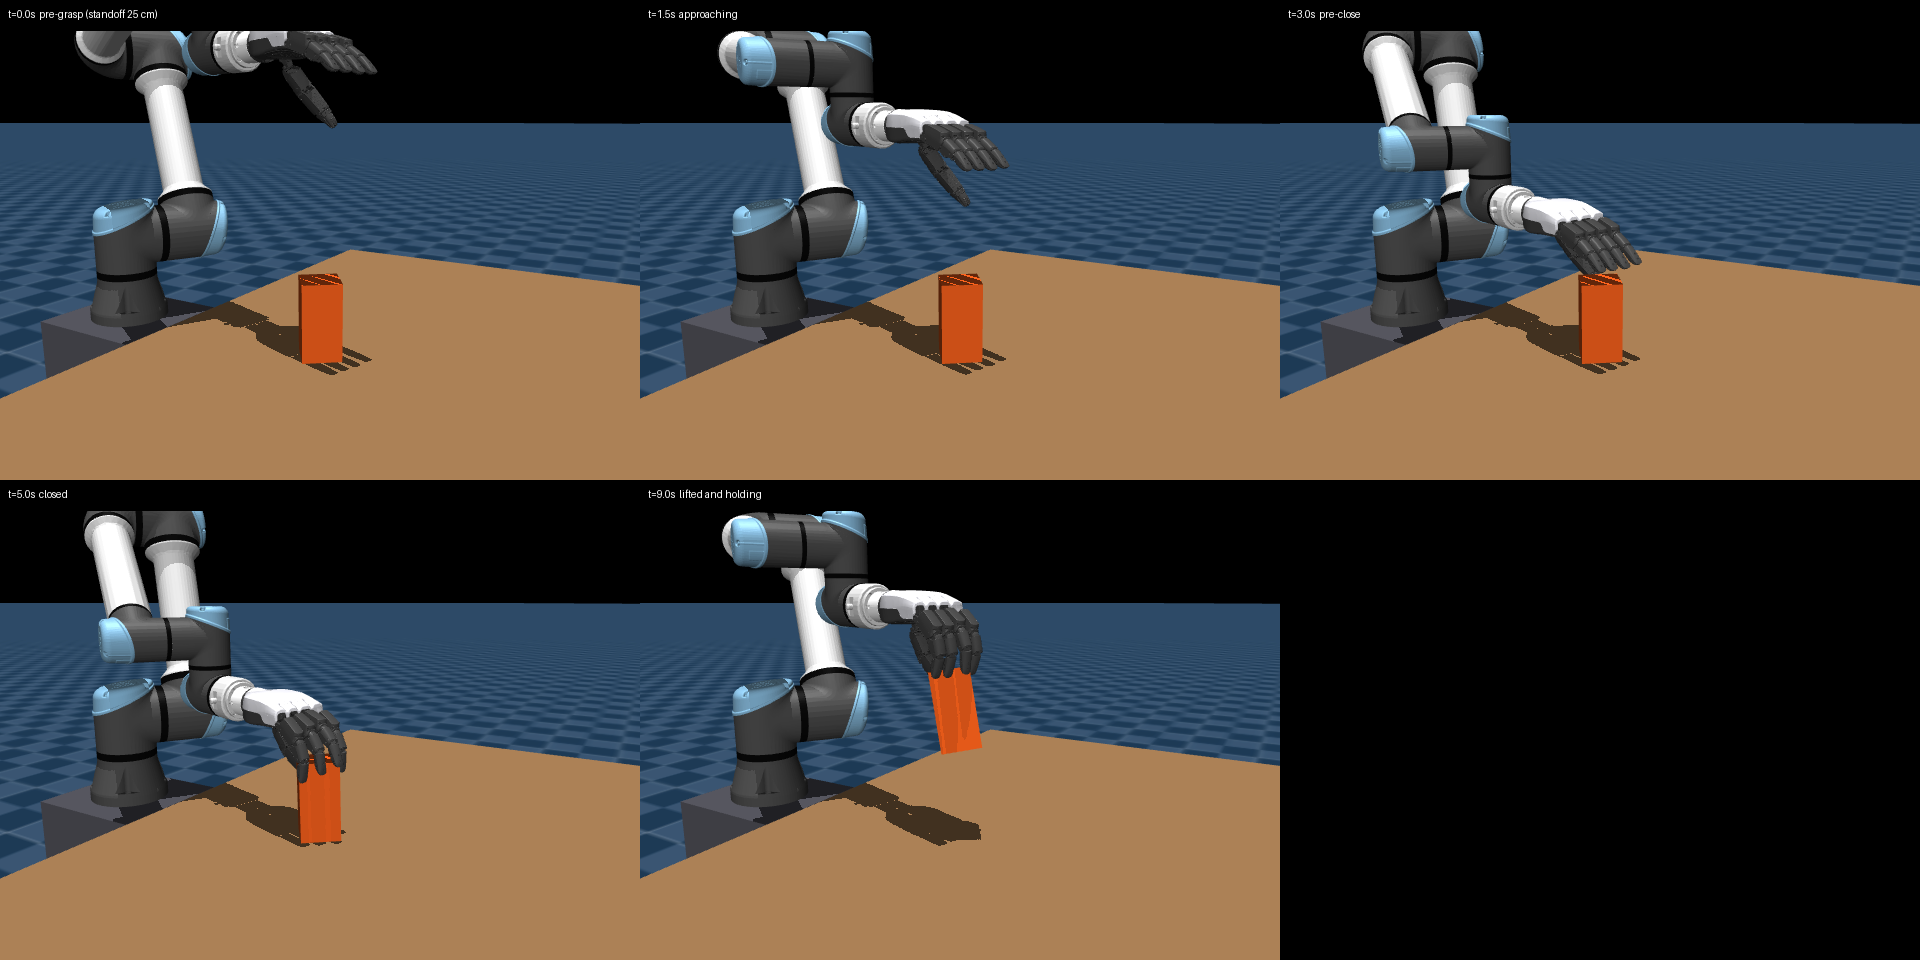
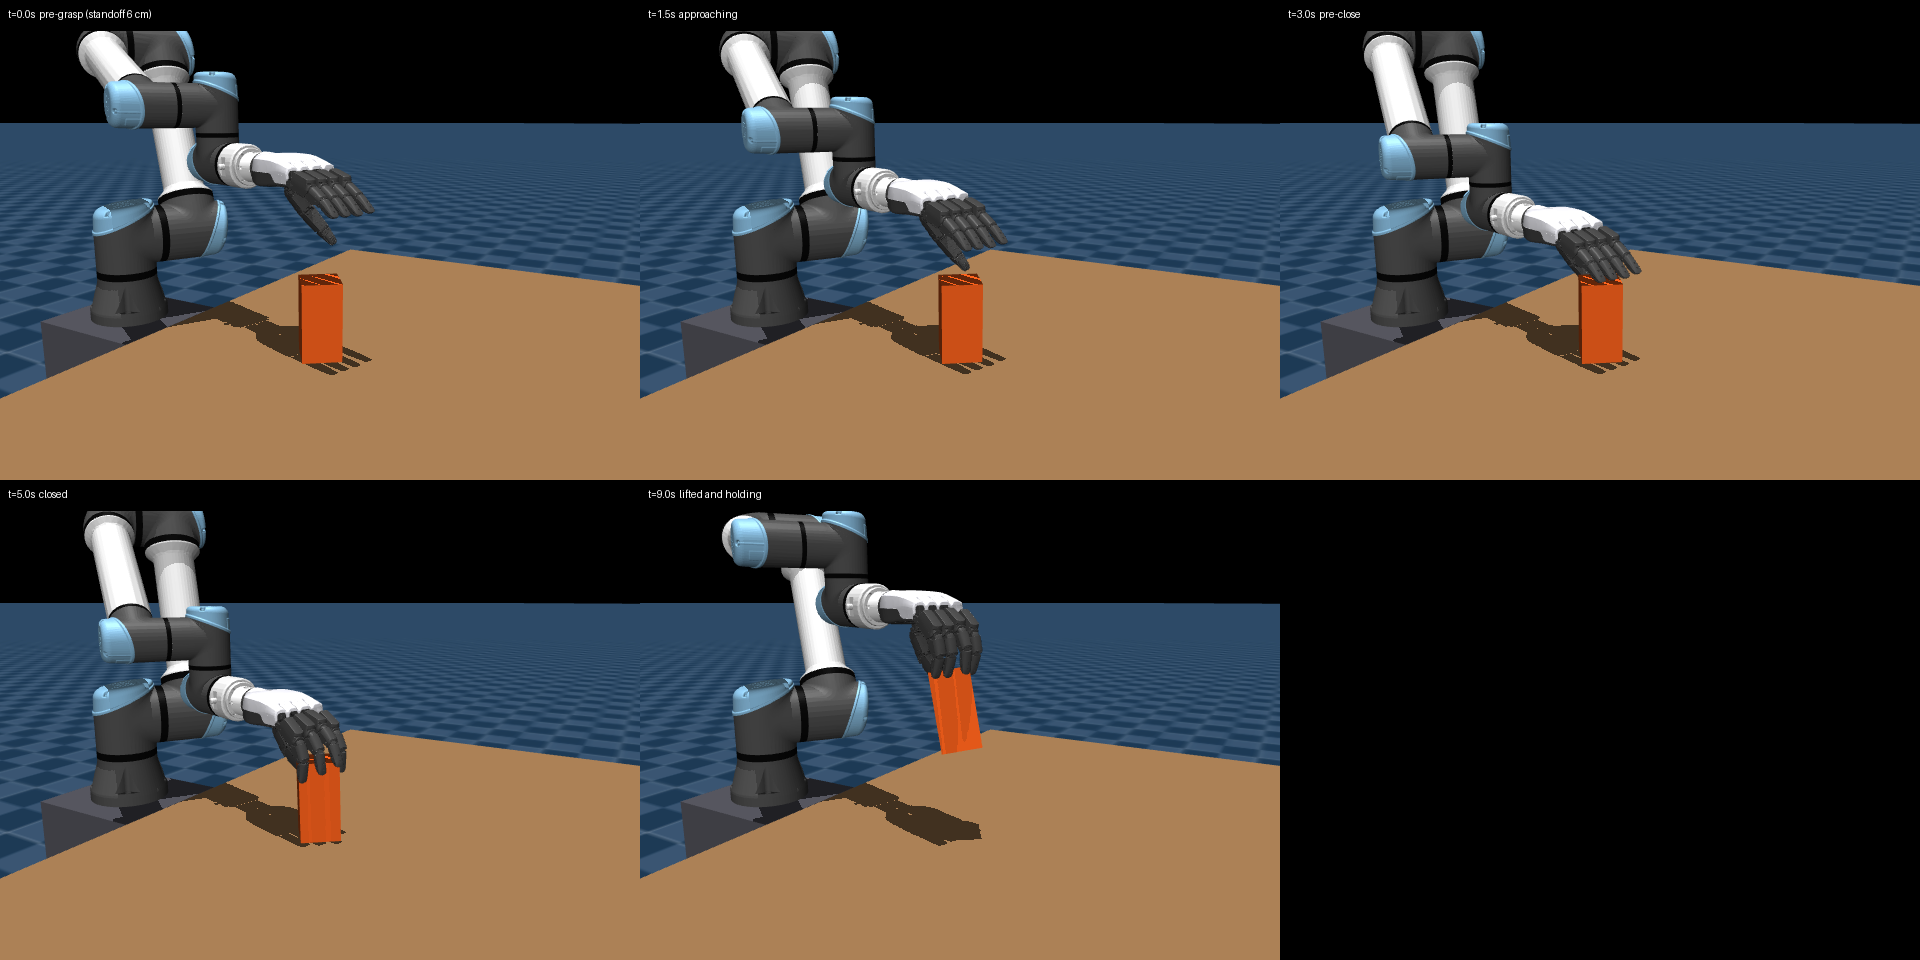
Start the grasp teacher 6 cm above the box
The paper's 0.25 m standoff left the hand 21 cm above the box and a near-zero starting reach reward, so early training would learn to reach rather than grasp. The pre-grasp now places the thumb tip about 2 cm above the box top; the probes and 12 random placements still pass.

Changed region(s): [[0.375, 0.0312, 0.5312, 0.2812], [0.0312, 0.0312, 0.2188, 0.25], [0.7188, 0.0312, 0.875, 0.3125]]

diff --git a/src/mjlab/tasks/ur5e_rh5dg2/grasp/constants.py b/src/mjlab/tasks/ur5e_rh5dg2/grasp/constants.py
@@ -43,7 +43,8 @@ OBJECT_DISTANCE = (0.45, 0.75)
 OBJECT_MAX_ABS_X = 0.25
 CAMERA_POS = (-0.035, 0.58, 1.531)
 TOP_GRASP = True
-STANDOFF = 0.25
+# The paper starts 0.25 m away; starting 2 cm above the box focuses on grasping.
+STANDOFF = 0.06
 NUM_ROLLS = 10
 GRASP_WIDTH_LIMIT = 0.18
 LENGTH_SCORE_COEFF = 5.0

diff --git a/docs/superpowers/research/2026-09-24-pregrasp-sampling.md b/docs/superpowers/research/2026-09-24-pregrasp-sampling.md
@@ -17,7 +17,7 @@ IK, collision check) and `grasp/mdp/events.py` (`PregraspReset`).
 | Random yaw, height from the lowest point | Yaw uniform in [-π, π]; box rests on the table. |
 | Ray-traced visible points from a virtual camera | Box surface points on faces facing the camera at (-0.035, 0.58, 1.531) m (exact for a convex primitive). |
 | Approach from the camera or from the top | Top approach, palm down (`TOP_GRASP`). |
-| Hand center 0.25 m from the affordance center | `HAND_CENTER` (box center at pre-close, wrist frame) placed 0.25 m along the approach. |
+| Hand center 0.25 m from the affordance center | `HAND_CENTER` (box center at pre-close, wrist frame) placed 0.06 m along the approach (see Standoff). |
 | 10 roll candidates, projection width | 10 finger-axis directions over the half plane facing away from the robot. |
 | UR5 IK per candidate, drop infeasible | Damped least squares on the native model, seeded from the collision-free palm-down branch, within the 0.9 soft limits. |
 | Score 5 x width + wrist_2 terms, argmin | Same formula; widths >= 0.18 m excluded unless all are. |
@@ -28,6 +28,23 @@ IK, collision check) and `grasp/mdp/events.py` (`PregraspReset`).
 The reference's sign flip leaves only five distinct roll directions out of ten
 thetas; here the ten directions are distinct. The object-displacement penalty is
 measured from each env's stored start position rather than a fixed pose.
+
+## Standoff
+
+The reference's 0.25 m left the lowest hand point 21 cm above the box top and the
+starting `reach` reward at 0.005 (5 cm length scale), so early training would be
+spent learning to reach. The standoff is 0.06 m, to focus the policy on grasping:
+
+| Standoff | Lowest hand point above box top | Fingertip-surface mean | Start `reach` |
+| ---: | ---: | ---: | ---: |
+| 0.25 m | 20.9 cm | 26.7 cm | 0.005 |
+| 0.15 m | 10.9 cm | 16.9 cm | 0.034 |
+| 0.10 m | 5.9 cm | 12.1 cm | 0.088 |
+| **0.06 m** | **1.9 cm (min 1.6)** | **8.6 cm** | **0.180** |
+| 0.05 m | 0.9 cm (min 0.6) | 7.8 cm | 0.212 |
+
+The lowest point is the thumb tip, which hangs below the palm; 0.05 m leaves less
+than the 5 mm collision margin at some placements.
 
 ## Pre-shape
 
@@ -61,24 +78,24 @@ Scripted grasp from pool entry #0 (approach 0–3 s, close 3–5 s, lift 6–8 s
 ## Physics measurements
 
 The probe starts from the sampled pre-grasp of the nominal placement, approaches
-along a straight line (IK every centimetre), closes and lifts 0.16 m vertically.
+6 cm along a straight line (IK every centimetre), closes and lifts 0.16 m vertically.
 Raw reports: [native](assets/2026-09-24-pregrasp-native.json) and
 [Warp CPU](assets/2026-09-24-pregrasp-warp.json).
 
 | Metric | Native CPU | Warp CPU |
 | --- | ---: | ---: |
-| Final lift | 0.1385 m | 0.1407 m |
+| Final lift | 0.1397 m | 0.1426 m |
 | Continuous stable hold | 3.0 s | 3.0 s |
-| Final object linear speed | 0.00063 m/s | 0.00068 m/s |
-| Peak hand/object contact depth | 1.33 mm | 1.33 mm |
-| Peak object/table contact depth | 1.81 mm | 2.92 mm |
+| Final object linear speed | 0.00061 m/s | 0.0034 m/s |
+| Peak hand/object contact depth | 1.21 mm | 1.10 mm |
+| Peak object/table contact depth | 1.82 mm | 2.91 mm |
 | Peak other robot contact depth | 0 | 0 |
 | Approach hand/object contact depth | 0 | 0 |
 | Maximum approach horizontal displacement | <0.000001 mm | <0.00002 mm |
 
 The same scripted grasp succeeded on 12 of 12 random edge-biased placements
-(yaw -124° to +177°, distance 0.45–0.73 m), with both the 1.2 and 0.8 thumb yaw
-pre-shapes, and zero approach displacement.
+(yaw -124° to +177°, distance 0.45–0.73 m), at both 0.25 m and 0.06 m standoff,
+with zero approach displacement.
 
 A 16-env, 3-iteration CPU training run completed with resets from the pool;
 object displacement penalty and lift-height metric stayed at zero at the start of

diff --git a/docs/superpowers/specs/2026-09-16-teacher-phase-dexgrasp-design.md b/docs/superpowers/specs/2026-09-16-teacher-phase-dexgrasp-design.md
@@ -30,8 +30,9 @@ it must not override policy actions during training.
     toward the object and +Z = finger axis; 10 finger-axis rolls over the half
     plane facing away from the robot.
   - The grasp reference `HAND_CENTER` = (0.125, 0.005, 0.190) m in the wrist
-    frame (box center at pre-close) is placed 0.25 m from the affordance center
-    along the approach.
+    frame (box center at pre-close) is placed 0.06 m from the affordance center
+    along the approach (the reference uses 0.25 m). The thumb tip then starts
+    about 2 cm above the box top, so training focuses on grasping, not reaching.
   - Damped least-squares IK per roll, seeded from a collision-free palm-down
     branch and rejected outside the 0.9 soft limits. Score = 5 x grasp width +
     |wrist_2 - π/2| + 0.5(|wrist_2| - 3.2) among widths below 0.18 m.

diff --git a/README.md b/README.md
@@ -35,7 +35,7 @@ This fork keeps the UR5e + rh5dg2 dexterous grasping tasks only.
 
 Train the UR5e + rh5dg2 hand to grasp a box, lift it 10 cm and hold it steady.
 Each reset follows the RobustDexGrasp pre-grasp pipeline: a random box placement
-and yaw, a palm-down approach 25 cm from the visible surface, the best of 10 wrist
+and yaw, a palm-down hand starting just above the box (6 cm standoff), the best of 10 wrist
 rolls by IK and grasp width, and collision filtering. A pool of 1024 pre-grasps
 is solved once at startup.
 
